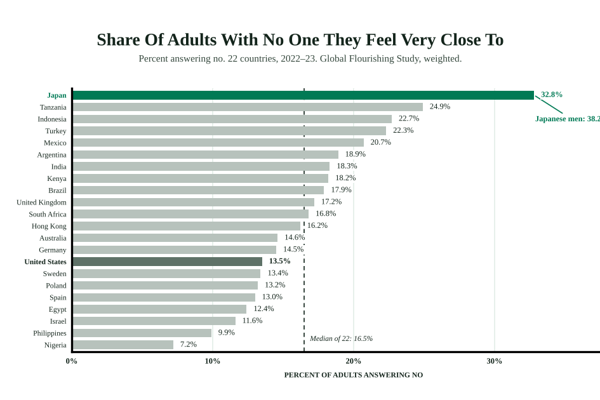
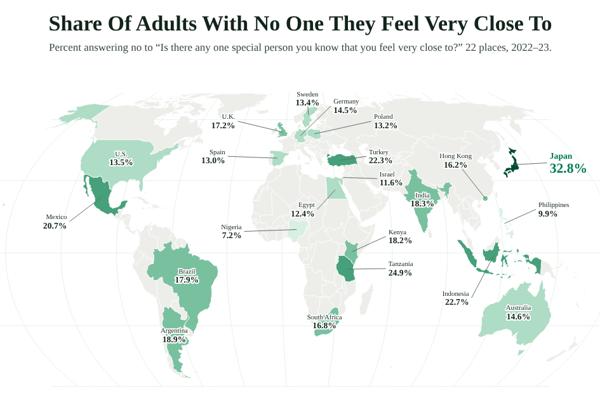
Friends story: static world map as lead image and share image
Claude-Session: https://claude.ai/code/session_01P7HXLHT8bQYmHkvAVWjw9o

diff --git a/flourish/src/staticmap.html b/flourish/src/staticmap.html
@@ -1,0 +1,82 @@
+<!doctype html><html><head><meta charset="utf-8">
+<style>html,body{margin:0;background:#fff}svg{display:block}text{font-family:"Times New Roman","Liberation Serif",serif}</style></head>
+<body><svg id="v"></svg>
+<script src="d3.min.js"></script><script src="topojson.min.js"></script><script src="world.js"></script>
+<script>
+const P=new URLSearchParams(location.search),MODE=P.get('m')||'tall';
+const W=MODE==='tall'?1080:1200,H=MODE==='tall'?1350:630;
+const INK='#13241b',MUT='#5f7268',G='#007a55';
+// iso: [name, pct, label anchor lon/lat or null, label offset dx,dy (px at tall scale), leader?]
+const D={'032':['Argentina',18.9],'036':['Australia',14.6],'076':['Brazil',17.9],'818':['Egypt',12.4],'276':['Germany',14.5],'356':['India',18.3],'360':['Indonesia',22.7],'376':['Israel',11.6],'392':['Japan',32.8],'404':['Kenya',18.2],'484':['Mexico',20.7],'566':['Nigeria',7.2],'608':['Philippines',9.9],'616':['Poland',13.2],'710':['South Africa',16.8],'724':['Spain',13.0],'834':['Tanzania',24.9],'792':['Turkey',22.3],'826':['United Kingdom',17.2],'840':['United States',13.5],'752':['Sweden',13.4],'344':['Hong Kong',16.2]};
+const BRK=[10,15,20,25,30],COL=['#d9efe4','#aedcc5','#79c09f','#46a07a','#177a55','#004a33'];
+const col=v=>COL[d3.bisectRight(BRK,v)];
+const svg=d3.select('#v').attr('width',W).attr('height',H).attr('viewBox',`0 0 ${W} ${H}`);
+const feats=topojson.feature(WORLD,WORLD.objects.countries).features;
+const land={type:'FeatureCollection',features:feats};
+function T(g,x,y,s,o={}){const t=g.append('text').attr('x',x).attr('y',y).attr('font-size',o.size||20).attr('text-anchor',o.a||'middle').attr('font-weight',o.w||400).attr('fill',o.fill||INK).text(s);if(o.halo)t.attr('paint-order','stroke').attr('stroke','#fff').attr('stroke-width',o.halo).attr('stroke-linejoin','round');if(o.it)t.attr('font-style','italic');if(o.ls)t.attr('letter-spacing',o.ls);return t;}
+const s=MODE==='tall'?1:0.62;           // text scale
+// ---------- title ----------
+if(MODE==='tall'){
+ T(svg,W/2,76,'Share Of Adults With No One',{size:50,w:700});T(svg,W/2,134,'They Feel Very Close To',{size:50,w:700});
+ T(svg,W/2,184,'Percent answering no to “Is there any one special person you know',{size:25,fill:'#34473c'});
+ T(svg,W/2,216,'that you feel very close to?” 22 places, 2022–23.',{size:25,fill:'#34473c'});
+}else{
+ T(svg,W/2,48,'Share Of Adults With No One They Feel Very Close To',{size:34,w:700});
+ T(svg,W/2,80,'Percent answering no to “Is there any one special person you know that you feel very close to?” 22 places, 2022–23.',{size:17,fill:'#34473c'});
+}
+// ---------- map ----------
+const box=MODE==='tall'?[[14,246],[1066,800]]:[[150,96],[1050,600]];
+const proj=d3.geoEqualEarth().rotate([-10,0]);
+const clip={type:'Polygon',coordinates:[[[-169,-57],[-169,83],[191,83],[191,-57],[-169,-57]].reverse()]};
+proj.fitExtent(box,{type:'MultiPoint',coordinates:[[-169,-57],[191,-57],[-169,83],[191,83],[10,83],[10,-57],[-169.9,0],[189.9,0],[-169.9,20],[189.9,20],[-169.9,-20],[189.9,-20]]});
+{const k=MODE==='tall'?1.1:1.16;proj.scale(proj.scale()*k);const c=proj([10,13]);const t=proj.translate();proj.translate([t[0]+((box[0][0]+box[1][0])/2-c[0]),t[1]+((box[0][1]+box[1][1])/2-c[1])]);}
+const path=d3.geoPath(proj);
+const mg=svg.append('g');
+mg.append('path').attr('d',path(d3.geoGraticule().step([30,30]).extentMajor([[-180,-60],[180,85]])())).attr('fill','none').attr('stroke','#e9efeb').attr('stroke-width',1);
+mg.selectAll(null).data(feats.filter(f=>!D[f.id])).join('path').attr('d',path).attr('fill','#ededea').attr('stroke','#fff').attr('stroke-width',.7);
+mg.selectAll(null).data(feats.filter(f=>D[f.id])).join('path').attr('d',path).attr('fill',f=>col(D[f.id][1])).attr('stroke','#fff').attr('stroke-width',.9);
+const hk=proj([114.17,22.32]);mg.append('circle').attr('cx',hk[0]).attr('cy',hk[1]).attr('r',5.5*(MODE==='tall'?1:.8)).attr('fill',col(16.2)).attr('stroke','#fff').attr('stroke-width',1.2);
+// ---------- labels ----------
+// [iso, anchor lon/lat, label lon/lat (null = on anchor), align]
+const L=[['840',[-99,39],null,'middle'],['484',[-102,23],[-118,12],'end'],['076',[-52,-10],null,'middle'],['032',[-65,-35],null,'middle'],
+ ['826',[-2,53],[-36,58],'end'],['724',[-4,40],[-36,40],'end'],['752',[16,63],[16,74],'middle'],['276',[10,51],[36,68],'start'],['616',[19.5,52],[62,58],'start'],
+ ['792',[34,39],[52,40],'start'],['376',[35,31.3],[56,30],'start'],['818',[30,26],[18,17],'end'],['566',[8,9.5],[-22,8],'end'],
+ ['404',[38,0.5],[58,6],'start'],['834',[35,-6.5],[58,-7],'start'],['710',[24,-29],null,'middle'],['356',[78.5,21],null,'middle'],
+ ['360',[115,-1],[104,-19],'end'],['608',[122,12],[142,17],'start'],['344',[114.17,22.32],[104,38],'middle'],['036',[134,-25],null,'middle'],['392',[138.5,37],[160,37],'start']];
+const lg=svg.append('g');const fs=MODE==='tall'?1:.72;
+L.forEach(([id,a,l,al])=>{const d=D[id],pa=proj(a),pl=l?proj(l):pa,big=id==='392';
+ if(l)lg.append('line').attr('x1',pa[0]).attr('y1',pa[1]).attr('x2',pl[0]+(al==='end'?4:al==='start'?-4:0)).attr('y2',pl[1]-4*fs).attr('stroke','#5f7268').attr('stroke-width',1);
+ const nameS=(big?19:15)*fs,valS=(big?30:19)*fs;
+ T(lg,pl[0],pl[1]-(big?13:9)*fs,d[0]==='United Kingdom'?'U.K.':d[0]==='United States'?'U.S.':d[0],{size:nameS,a:al,fill:big?G:INK,halo:3.5,w:big?700:400});
+ T(lg,pl[0],pl[1]+(big?18:11)*fs,d[1].toFixed(1)+'%',{size:valS,a:al,w:700,fill:big?G:INK,halo:4});
+});
+// ---------- legend ----------
+const LY=MODE==='tall'?836:572,LX=MODE==='tall'?W/2-270:20;
+const leg=svg.append('g').attr('transform',`translate(${LX},${LY})`);const sw=MODE==='tall'?78:20,sh=MODE==='tall'?18:14;
+if(MODE==='tall'){
+ COL.forEach((c,i)=>leg.append('rect').attr('x',i*sw).attr('y',0).attr('width',sw-3).attr('height',sh).attr('fill',c));
+ ['','10%','15%','20%','25%','30%'].forEach((t,i)=>t&&T(leg,i*sw-1.5,sh+26,t,{size:20,w:700}));
+ leg.append('rect').attr('x',6*sw+26).attr('y',0).attr('width',sw-3).attr('height',sh).attr('fill','#ededea');
+ T(leg,6*sw+26+(sw-3)/2,sh+26,'Not surveyed',{size:18,fill:MUT});
+}else{
+ COL.slice().reverse().forEach((c,i)=>leg.append('rect').attr('x',0).attr('y',-i*(sh+3)).attr('width',sw).attr('height',sh).attr('fill',c));
+ ['30%+','25','20','15','10','<10%'].forEach((t,i)=>T(leg,sw+6,-i*(sh+3)+sh-2,t,{size:13,a:'start',w:700}));
+ leg.append('rect').attr('x',0).attr('y',-6*(sh+3)-6).attr('width',sw).attr('height',sh).attr('fill','#ededea');T(leg,sw+6,-6*(sh+3)-6+sh-2,'Not surveyed',{size:13,a:'start',fill:MUT});
+}
+// ---------- tall: bottom strip with ranked dot line ----------
+if(MODE==='tall'){
+ const y0=1068,x=d3.scaleLinear([5,35],[90,990]);
+ T(svg,90,y0-118,'All 22 places, ranked',{size:22,w:700,a:'start'});
+ svg.append('line').attr('x1',x(5)).attr('x2',x(35)).attr('y1',y0+40).attr('y2',y0+40).attr('stroke','#000').attr('stroke-width',2.4);
+ [5,10,15,20,25,30,35].forEach(v=>{svg.append('line').attr('x1',x(v)).attr('x2',x(v)).attr('y1',y0+40).attr('y2',y0+48).attr('stroke','#000').attr('stroke-width',2);T(svg,x(v),y0+74,v+'%',{size:19,w:700});});
+ const pts=Object.entries(D).map(([k,d])=>({k,n:d[0],v:d[1]})).sort((a,b)=>a.v-b.v);
+ // stack dots in columns to avoid overlap
+ const placed=[];pts.forEach(p=>{let lvl=0;while(placed.some(q=>q.lvl===lvl&&Math.abs(x(q.v)-x(p.v))<17))lvl++;p.lvl=lvl;placed.push(p);});
+ pts.forEach(p=>svg.append('circle').attr('cx',x(p.v)).attr('cy',y0+28-p.lvl*18).attr('r',8).attr('fill',col(p.v)).attr('stroke',p.k==='392'||p.k==='840'||p.k==='566'?INK:'#fff').attr('stroke-width',p.k==='392'||p.k==='840'||p.k==='566'?2:1.2));
+ const lab=(k,txt,dy,a)=>{const p=pts.find(q=>q.k===k);const yy=y0+28-p.lvl*18;dy=yy-(y0-72);svg.append('line').attr('x1',x(p.v)).attr('x2',x(p.v)).attr('y1',yy-10).attr('y2',yy-dy+8).attr('stroke',MUT).attr('stroke-width',1);T(svg,x(p.v),yy-dy,txt,{size:20,w:700,a:a||'middle',fill:k==='392'?G:INK});};
+ lab('566','Nigeria 7.2%',58);lab('840','U.S. 13.5%',96);lab('392','Japan 32.8%',58);lab('834','Tanzania 24.9%',58);
+ // callout
+ T(svg,W/2,1196,'Japanese adults were 2.4 times as likely as Americans to say there’s no one,',{size:25});
+ T(svg,W/2,1230,'and Japanese men were the most likely group in any country, at 38.2%.',{size:25});
+}
+</script></body></html>

diff --git a/friends/post-body.html b/friends/post-body.html
@@ -1,6 +1,7 @@
 <style>.nid-a h2{margin:1.6em 0 .5em}.nid-a .nid-fig{margin:1.6em auto;max-width:620px}.nid-a .nid-fig img{width:100%;height:auto;display:block;border:1px solid #e6e3dd;border-radius:6px}.nid-a .nid-photo{max-width:520px}.nid-a .nid-fig figcaption{font-size:.82em;color:#5f7268;margin-top:.5em;line-height:1.4}.nid-a .nid-method{font-size:.92em;margin-top:2em}</style><div class="nid-a">
 <p>I went looking for the loneliest country in the Global Flourishing Study's newly opened data and kept landing on Japan. The survey asked people in 22 countries whether “there's any one special person you know that you feel very close to,” someone you can confide in, and 32.8% of Japanese adults said no. That is 2.4 times the U.S. share of 13.5% and about twice the 16.5% in the median country.</p>
 <p>[Samuel: one sentence on why you looked at this, e.g. something you've seen in students, athletes or friends.]</p>
+<figure class="nid-fig"><img src="https://stories.thenewsindata.com/friends/friends-map-chart.png" alt="World map of 22 places shaded by the share of adults with no one they feel very close to. Japan is darkest at 32.8%, more than twice the U.S. at 13.5%; Nigeria is lowest at 7.2%." width="1080" height="1350"></figure>
 <div class="nid-gfs-map" data-mode="close"></div><script src="https://cdnjs.cloudflare.com/ajax/libs/d3/7.8.5/d3.min.js"></script><script src="https://cdnjs.cloudflare.com/ajax/libs/topojson/3.0.2/topojson.min.js"></script><script src="https://stories.thenewsindata.com/friends/map.js"></script>
 <figure class="nid-fig nid-photo"><img src="https://upload.wikimedia.org/wikipedia/commons/thumb/c/c5/Tokyo_Shibuya_Scramble_Crossing_2018-10-09.jpg/960px-Tokyo_Shibuya_Scramble_Crossing_2018-10-09.jpg" alt="Crowds crossing at Shibuya Crossing in Tokyo" loading="lazy"><figcaption>Shibuya Crossing in Tokyo in 2018. In Japan, 32.8% of adults told the survey there's no one they feel very close to. Photo: <a href="https://commons.wikimedia.org/wiki/File:Tokyo_Shibuya_Scramble_Crossing_2018-10-09.jpg">Benh LIEU SONG</a>, CC BY-SA 2.0.</figcaption></figure>
 <h2>Who else said there's no one?</h2>

diff --git a/friends/index.html b/friends/index.html
@@ -2,7 +2,7 @@
 <title>No One Close: A World Map — The News in Data</title>
 <meta name="description" content="Share of adults with no one they feel very close to, and average flourishing scores, in 22 places. Global Flourishing Study, 2022–23.">
 <link rel="canonical" href="https://www.thenewsindata.com/stories/one-in-three-japanese-adults-say-theres-no-one-they-feel-very-close-to-more-than-twice-the-us-share">
-<meta property="og:title" content="One In Three Japanese Adults Say There's No One They Feel Very Close To"><meta property="og:image" content="https://stories.thenewsindata.com/friends/friends-preview.png"><meta property="og:url" content="https://stories.thenewsindata.com/friends/"><meta name="twitter:card" content="summary_large_image">
+<meta property="og:title" content="One In Three Japanese Adults Say There's No One They Feel Very Close To"><meta property="og:image" content="https://stories.thenewsindata.com/friends/friends-map-preview.png"><meta property="og:url" content="https://stories.thenewsindata.com/friends/"><meta name="twitter:card" content="summary_large_image">
 <style>body{margin:0;background:#fff;color:#13241b;font-family:"Times New Roman",Times,serif}.w{max-width:900px;margin:0 auto;padding:16px}.m{display:flex;justify-content:space-between;align-items:center;border-bottom:2px solid #13241b;padding-bottom:12px;font:13px ui-monospace,monospace;letter-spacing:.08em;color:#5f7268}.m b{font:800 18px system-ui,sans-serif;color:#fff;background:#007a55;padding:6px 10px}a{color:#007a55}</style></head>
 <body><div class="w"><div class="m"><a href="https://www.thenewsindata.com" style="text-decoration:none"><b>The News in Data</b></a><span>CULTURE</span></div>
 <div class="nid-gfs-map" data-mode="close"></div>

diff --git a/flourish/src/build_gfs.py b/flourish/src/build_gfs.py
@@ -28,6 +28,7 @@ STORIES["friends"] = dict(
               "very close to,” someone you can confide in, and 32.8% of Japanese adults said no. That is 2.4 times the U.S. "
               "share of 13.5% and about twice the 16.5% in the median country."),
         ("p", "[Samuel: one sentence on why you looked at this, e.g. something you've seen in students, athletes or friends.]"),
+        ("img", "friends-map-chart.png", "World map of 22 places shaded by the share of adults with no one they feel very close to. Japan is darkest at 32.8%, more than twice the U.S. at 13.5%; Nigeria is lowest at 7.2%."),
         ("map", "close"),
         ("photo", UP + "c/c5/Tokyo_Shibuya_Scramble_Crossing_2018-10-09.jpg/960px-Tokyo_Shibuya_Scramble_Crossing_2018-10-09.jpg",
          "Crowds crossing at Shibuya Crossing in Tokyo",
@@ -186,6 +187,9 @@ for folder, S in STORIES.items():
         elif b[0] == "chart":
             out.append(f'<figure class="nid-fig"><img src="{base}{b[1]}" alt="{html.escape(S["alt"])}" width="1080" height="1350"></figure>')
             md.append(f"[chart: {base}{b[1]}]\n")
+        elif b[0] == "img":
+            out.append(f'<figure class="nid-fig"><img src="{base}{b[1]}" alt="{html.escape(b[2])}" width="1080" height="1350"></figure>')
+            md.append(f"[map image: {base}{b[1]}]\n")
         elif b[0] == "map":
             out.append(f'<div class="nid-gfs-map" data-mode="{b[1]}"></div>'
                        '<script src="https://cdnjs.cloudflare.com/ajax/libs/d3/7.8.5/d3.min.js"></script>'
